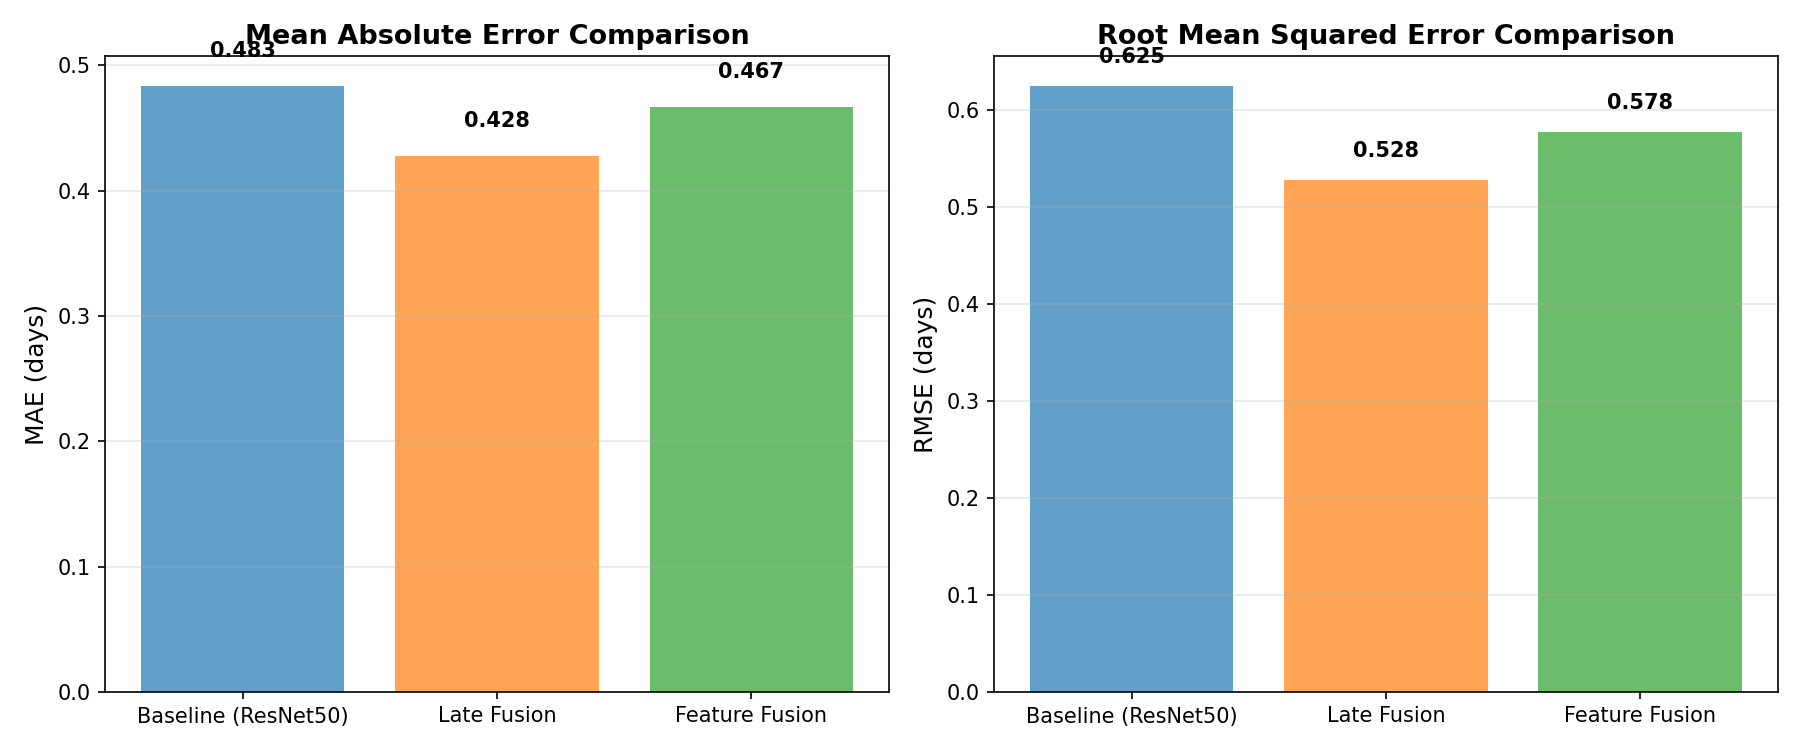
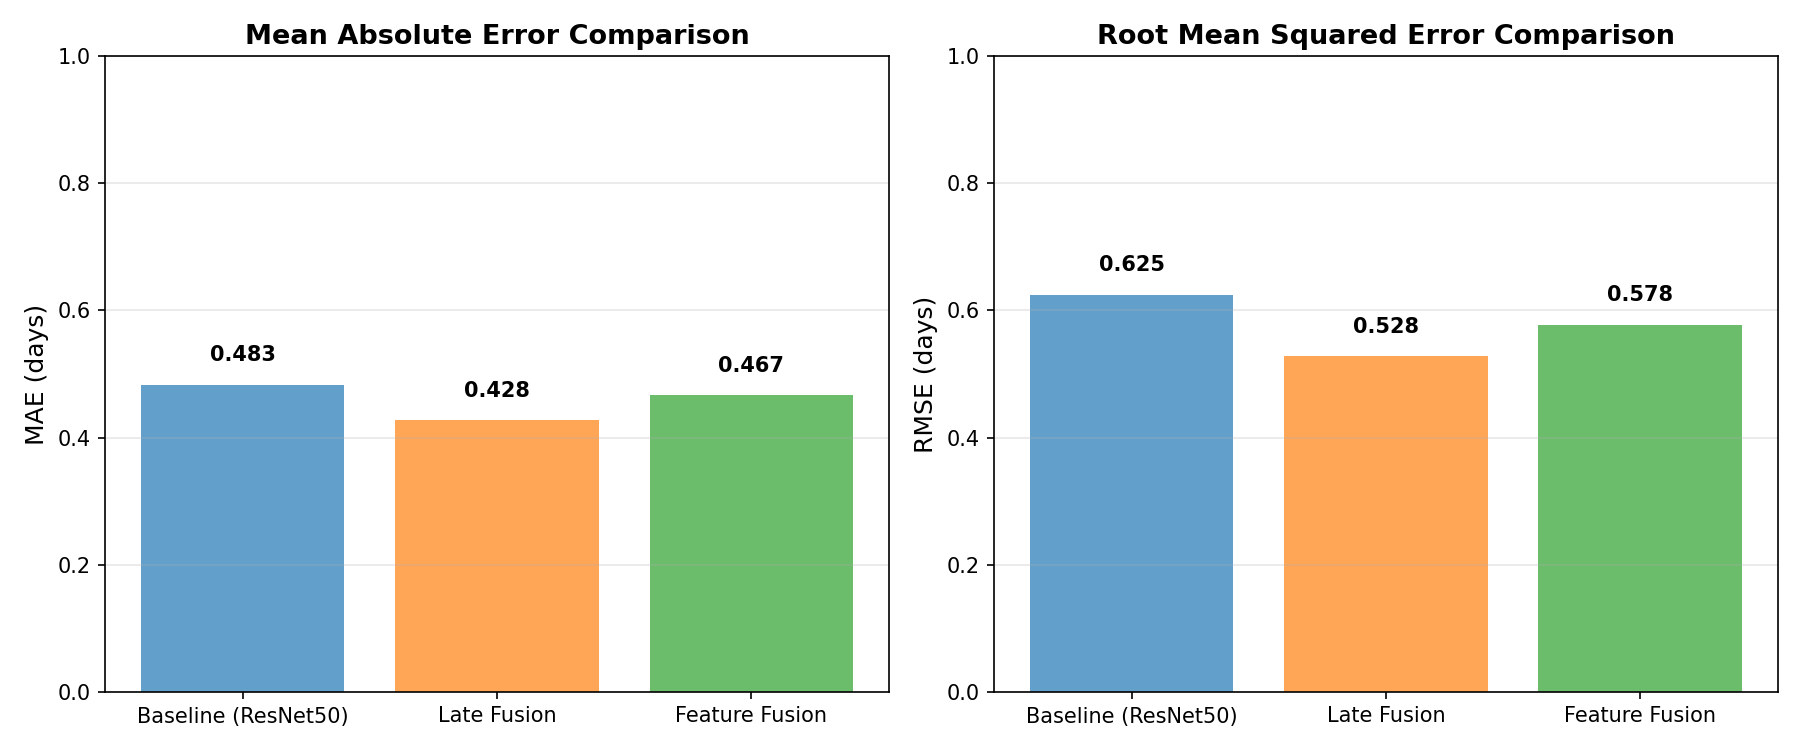
Bug fix

diff --git a/Model/Evaluating/evaluate_all_models.py b/Model/Evaluating/evaluate_all_models.py
@@ -176,7 +176,7 @@ def plot_scatter_comparison(results: Dict, output_path: _Path):
 
 
 def plot_metrics_comparison(results: Dict, output_path: _Path):
-    """Create bar chart comparing MAE and RMSE."""
+    """Create bar chart comparing MAE and RMSE with unified scale."""
     fig, (ax1, ax2) = plt.subplots(1, 2, figsize=(12, 5))
 
     models = [MODEL_CONFIGS[mt]["name"] for mt in results.keys()]
@@ -188,17 +188,19 @@ def plot_metrics_comparison(results: Dict, output_path: _Path):
     ax1.bar(models, maes, color=colors, alpha=0.7)
     ax1.set_ylabel("MAE (days)", fontsize=12)
     ax1.set_title("Mean Absolute Error Comparison", fontsize=13, fontweight="bold")
+    ax1.set_ylim(0, 1.0)  # Set y-axis to 0-1 day for consistency
     ax1.grid(True, axis="y", alpha=0.3)
     for i, v in enumerate(maes):
-        ax1.text(i, v + 0.02, f"{v:.3f}", ha="center", va="bottom", fontweight="bold")
+        ax1.text(i, v + 0.03, f"{v:.3f}", ha="center", va="bottom", fontweight="bold")
 
     # RMSE comparison
     ax2.bar(models, rmses, color=colors, alpha=0.7)
     ax2.set_ylabel("RMSE (days)", fontsize=12)
     ax2.set_title("Root Mean Squared Error Comparison", fontsize=13, fontweight="bold")
+    ax2.set_ylim(0, 1.0)  # Set y-axis to 0-1 day for consistency
     ax2.grid(True, axis="y", alpha=0.3)
     for i, v in enumerate(rmses):
-        ax2.text(i, v + 0.02, f"{v:.3f}", ha="center", va="bottom", fontweight="bold")
+        ax2.text(i, v + 0.03, f"{v:.3f}", ha="center", va="bottom", fontweight="bold")
 
     plt.tight_layout()
     plt.savefig(output_path, dpi=150)

diff --git a/README.md b/README.md
@@ -163,7 +163,10 @@ Default parameters (optimized for this dataset):
 
 Example outputs in `Results/`:
 - **Training curves:** Loss/MAE progression over epochs
-- **Comparison plots:** Side-by-side scatter plots
+- **Comparison plots:**
+  - Side-by-side scatter plots for all 3 models
+  - Bar charts with unified 0-1 day scale for easy comparison
+  - Combined confusion matrices
 - **Metrics table:** MAE, RMSE, parameters comparison
 - **Predictions:** CSV files with individual predictions
 
@@ -260,7 +263,12 @@ This generates (saved to `User_Study/Results/`):
 
 ### Results/
 - `training_curves/` - Training progress plots
-- `comparison/` - Model comparison visualizations
+- `comparison/` - Model comparison visualizations:
+  - `metrics_comparison.csv` - Performance metrics table
+  - `metrics_comparison.png` - Bar charts (MAE & RMSE with unified 0-1 day scale)
+  - `scatter_comparison.png` - Side-by-side scatter plots for all 3 models
+  - `confusion_matrix_comparison.png` - Combined confusion matrices
+- `predictions/` - Individual model prediction CSV files
 - `plots/` - Individual evaluation plots
 
 ### User_Study/
